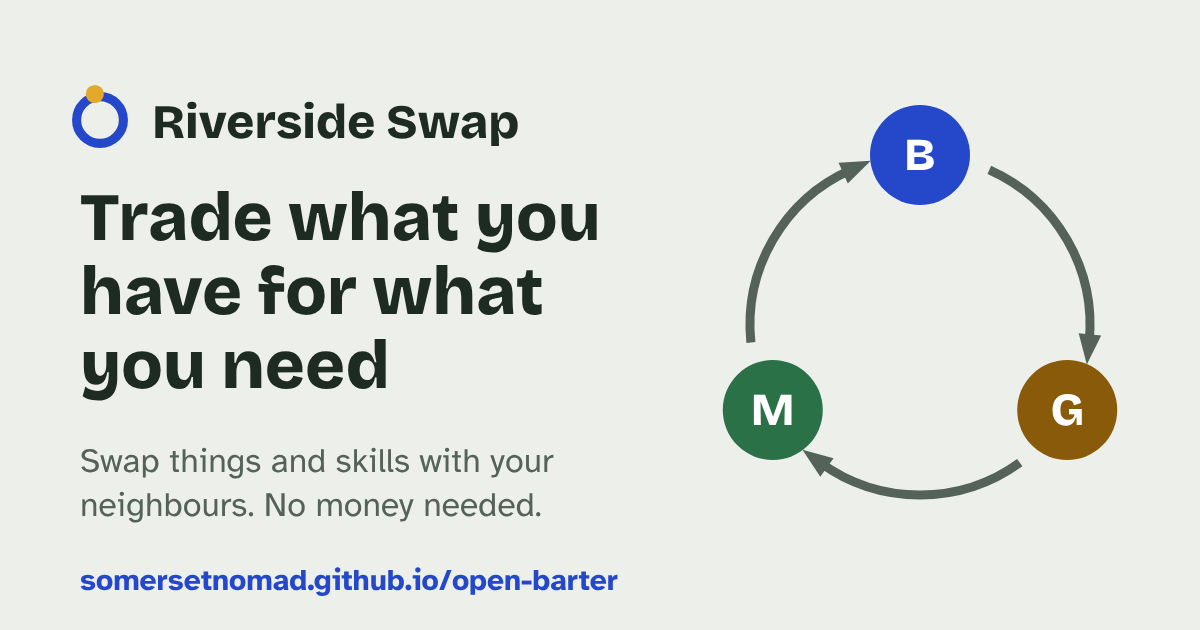
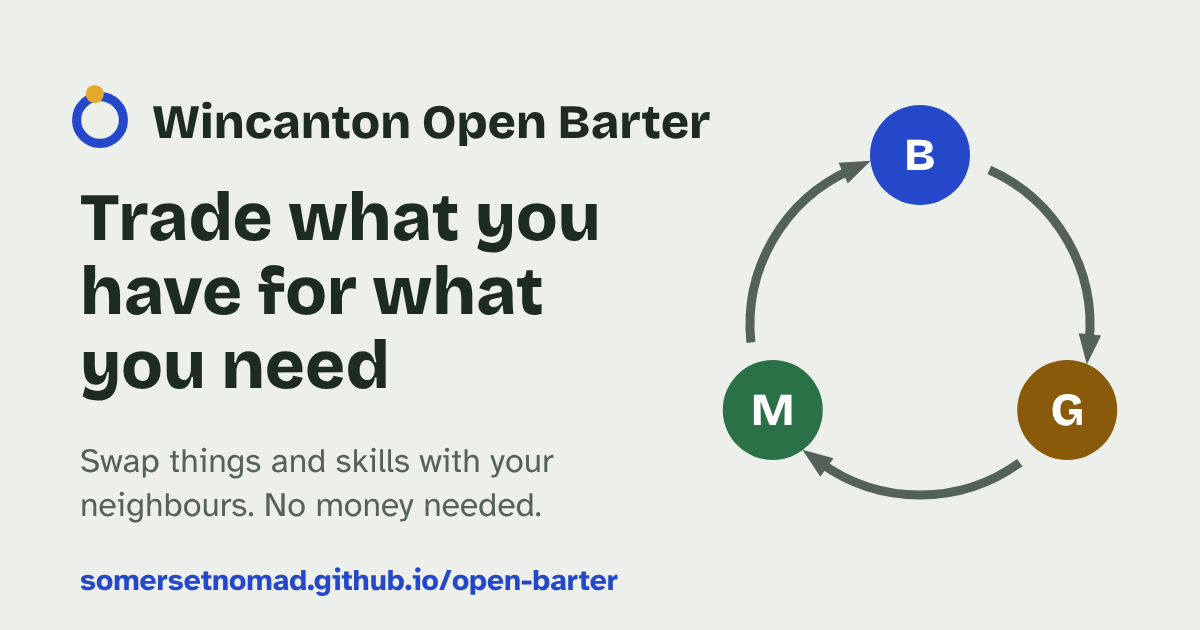
Rename to Wincanton Open Barter; explain how to adapt it for another town
- Community name, page title and link-preview tags now say Wincanton Open Barter
- New link-preview picture with the new name
- Areas list cleared (members type their own) instead of sample areas
- config.js, README ('Make it your town's') and the organisers' guide tell
  people to change 'Wincanton' to their own town when they copy the project

Claude-Session: https://claude.ai/code/session_0182WGkyyKkFqr4atBnppeyV

Changed region(s): [[0.1233, 0.1508, 0.5858, 0.2413]]

diff --git a/assets/organisers.js b/assets/organisers.js
@@ -73,6 +73,10 @@ Contact: [your name], [phone], [email]`]
     main.innerHTML = `<div class="guide">
     <h1>For organisers</h1>
     <p class="lede-sm">A swap site only works when enough neighbours use it. Here's how to get it going without spending money.</p>
+    <div class="notice warn" style="margin-bottom:24px"><b>Starting one for your own town?</b> This site is free and open source.
+      Copy it${cfg.sourceUrl ? ` from <a href="${esc(cfg.sourceUrl)}">GitHub</a>` : ''}, then change <b>${esc(cfg.name)}</b> to your town's name
+      (for example, "Frome Open Barter") in <code>config.js</code> and in the link-preview tags in <code>index.html</code>.
+      The README walks you through the rest.</div>
     <nav class="toc" aria-label="On this page">${sections.map(([id, t]) => `<button class="linkbtn" data-jump="${id}">${t}</button>`).join('')}</nav>
 
     <section id="g-launch"><h2>Before you launch</h2>
@@ -158,7 +162,7 @@ Contact: [your name], [phone], [email]`]
     </section>
 
     <section id="g-domain"><h2>Your own web address</h2>
-      <p>Your site already works at <b>${esc(share.shortUrl())}</b> for free. A short address of your own, like <b>riversideswap.org</b>, is easier to say out loud and to put on posters.</p>
+      <p>Your site already works at <b>${esc(share.shortUrl())}</b> for free. A short address of your own, like <b>yourtownbarter.org</b>, is easier to say out loud and to put on posters.</p>
       <h3>Free option: borrow a sub-address</h3>
       <p>If your village hall, residents' association or another local group already has a website, ask whoever manages it to add <b>swap.their-domain.org</b> for you. They add one DNS record (step 4 below), and you do the rest.</p>
       <h3>Buying your own</h3>
@@ -181,7 +185,7 @@ Contact: [your name], [phone], [email]`]
         <li><b>Update your code:</b> set <code>siteUrl</code> in <code>config.js</code> to the new address, and change the addresses in the link-preview tags at the top of <code>index.html</code>.</li>
         <li><b>Reprint your posters</b> so the QR code uses the new address. The old github.io address will redirect to the new one.</li>
       </ol>
-      <p class="muted small">If you use your own email provider for sign-in emails, you can also send them from your domain (e.g. hello@riversideswap.org). Your email provider will ask you to add a few DNS records to prove you own it.</p>
+      <p class="muted small">If you use your own email provider for sign-in emails, you can also send them from your domain (e.g. hello@yourtownbarter.org). Your email provider will ask you to add a few DNS records to prove you own it.</p>
     </section>
   </div>`;
 

diff --git a/index.html b/index.html
@@ -3,13 +3,13 @@
 <head>
   <meta charset="utf-8">
   <meta name="viewport" content="width=device-width, initial-scale=1">
-  <title>Community Swap</title>
+  <title>Wincanton Open Barter</title>
   <meta name="description" content="Swap things and skills with your neighbours. No money needed.">
-  <!-- Link previews (Facebook, WhatsApp, X, etc.). Change these to your own name and web address.
+  <!-- Link previews (Facebook, WhatsApp, X, etc.). Change "Wincanton" and the web address to your own.
        Make the picture on the site's "For organisers" page and save it as assets/social-card.png. -->
   <meta property="og:type" content="website">
-  <meta property="og:site_name" content="Riverside Swap">
-  <meta property="og:title" content="Riverside Swap: trade what you have for what you need">
+  <meta property="og:site_name" content="Wincanton Open Barter">
+  <meta property="og:title" content="Wincanton Open Barter: trade what you have for what you need">
   <meta property="og:description" content="Swap things and skills with your neighbours. No money needed.">
   <meta property="og:url" content="https://somersetnomad.github.io/open-barter/">
   <meta property="og:image" content="https://somersetnomad.github.io/open-barter/assets/social-card.png">
@@ -25,7 +25,7 @@
 <body>
   <a class="skip" href="#main">Skip to content</a>
   <header class="topbar">
-    <a class="brand" href="#/"><span class="brand-mark" aria-hidden="true"></span><span id="brand-name">Community Swap</span></a>
+    <a class="brand" href="#/"><span class="brand-mark" aria-hidden="true"></span><span id="brand-name">Wincanton Open Barter</span></a>
     <nav class="mainnav" aria-label="Main">
       <a href="#/browse" data-nav="browse">Browse</a>
       <a href="#/matches" data-nav="matches">Matches</a>

diff --git a/config.js b/config.js
@@ -13,7 +13,9 @@ export default {
   supabaseAnonKey: 'sb_publishable_0O3FLi1EQD2j1Gj80frdvw_Dpf6qVbv',
 
   // --- Identity -------------------------------------------------------
-  name: 'Riverside Swap',
+  // ✏ STARTING ONE FOR YOUR TOWN? Change "Wincanton" to your town's name
+  // here and in index.html (the link-preview tags), then set your areas below.
+  name: 'Wincanton Open Barter',
   tagline: 'Swap things and skills with your neighbours. No money needed.',
   heroTitle: 'Trade what you have for what you need',
   moderatorEmail: '', // shown on the rules page so people can reach a human
@@ -30,9 +32,10 @@ export default {
   creditHint: 'Roughly, 1 credit ≈ 10 minutes of someone\'s time.',
 
   // --- Places ---------------------------------------------------------
-  // Areas people can pick. Local-only listings are matched within the
-  // same area. Leave the list empty to let people type their own.
-  areas: ['Riverside', 'Old Town', 'Hillside'],
+  // Neighbourhoods or nearby villages people can pick, e.g. ['Town centre', 'Bayford'].
+  // Local-only listings are matched within the same area.
+  // Leave the list empty to let people type their own.
+  areas: [],
 
   // --- Categories -----------------------------------------------------
   categories: [

diff --git a/README.md b/README.md
@@ -1,5 +1,7 @@
 # Open Barter
 
+**Wincanton Open Barter** is the first community running on Open Barter. Starting one for your own town? Copy this repository and change "Wincanton" to your town's name: see [Make it your town's](#make-it-your-towns) below.
+
 **Live site:** https://somersetnomad.github.io/open-barter/
 
 > **Forking?** `config.js` in this repository points at the live database. Blank out `supabaseUrl` and `supabaseAnonKey` in your copy to start in demo mode, then connect your own Supabase project.
@@ -29,6 +31,18 @@ It runs in **demo mode** straight after you fork it, with sample members and dat
 | **Tax** | Barter can count as income for businesses. | The rules page carries a short, general note. It isn't legal advice. |
 
 ---
+
+## Make it your town's
+
+This copy is set up for **Wincanton**. To run one for your own town:
+
+1. **Fork** this repository (or download it and upload it to a new one).
+2. In `config.js`:
+   - change `name: 'Wincanton Open Barter'` to your town, for example `'Frome Open Barter'`
+   - blank out `supabaseUrl` and `supabaseAnonKey`, so your copy starts in demo mode instead of using Wincanton's database
+   - list your own neighbourhoods or nearby villages in `areas` (or leave it empty to let people type their own)
+3. In `index.html`, change "Wincanton" and the web address in the link-preview (`og:`) tags.
+4. Follow **Go live** below to connect your own free database. Then make your own link-preview picture on the site's **For organisers** page and save it as `assets/social-card.png`.
 
 ## Try the demo
 
@@ -103,7 +117,7 @@ When someone pastes your address into Facebook, WhatsApp or X, those apps read t
 
 ## Use your own web address
 
-Your site works for free at `your-name.github.io/repo-name`. A domain of your own (for example `riversideswap.org`) is easier to say and to print. The organisers' guide has the full walkthrough; in short:
+Your site works for free at `your-name.github.io/repo-name`. A domain of your own (for example `yourtownbarter.org`) is easier to say and to print. The organisers' guide has the full walkthrough; in short:
 
 1. Buy a domain from any registrar, and turn on auto-renew. Or, for free, ask a local group that already has a website to give you a sub-address such as `swap.their-domain.org`.
 2. Verify the domain on GitHub: **your profile picture → Settings → Pages → Add a domain**. This stops anyone else claiming it.
